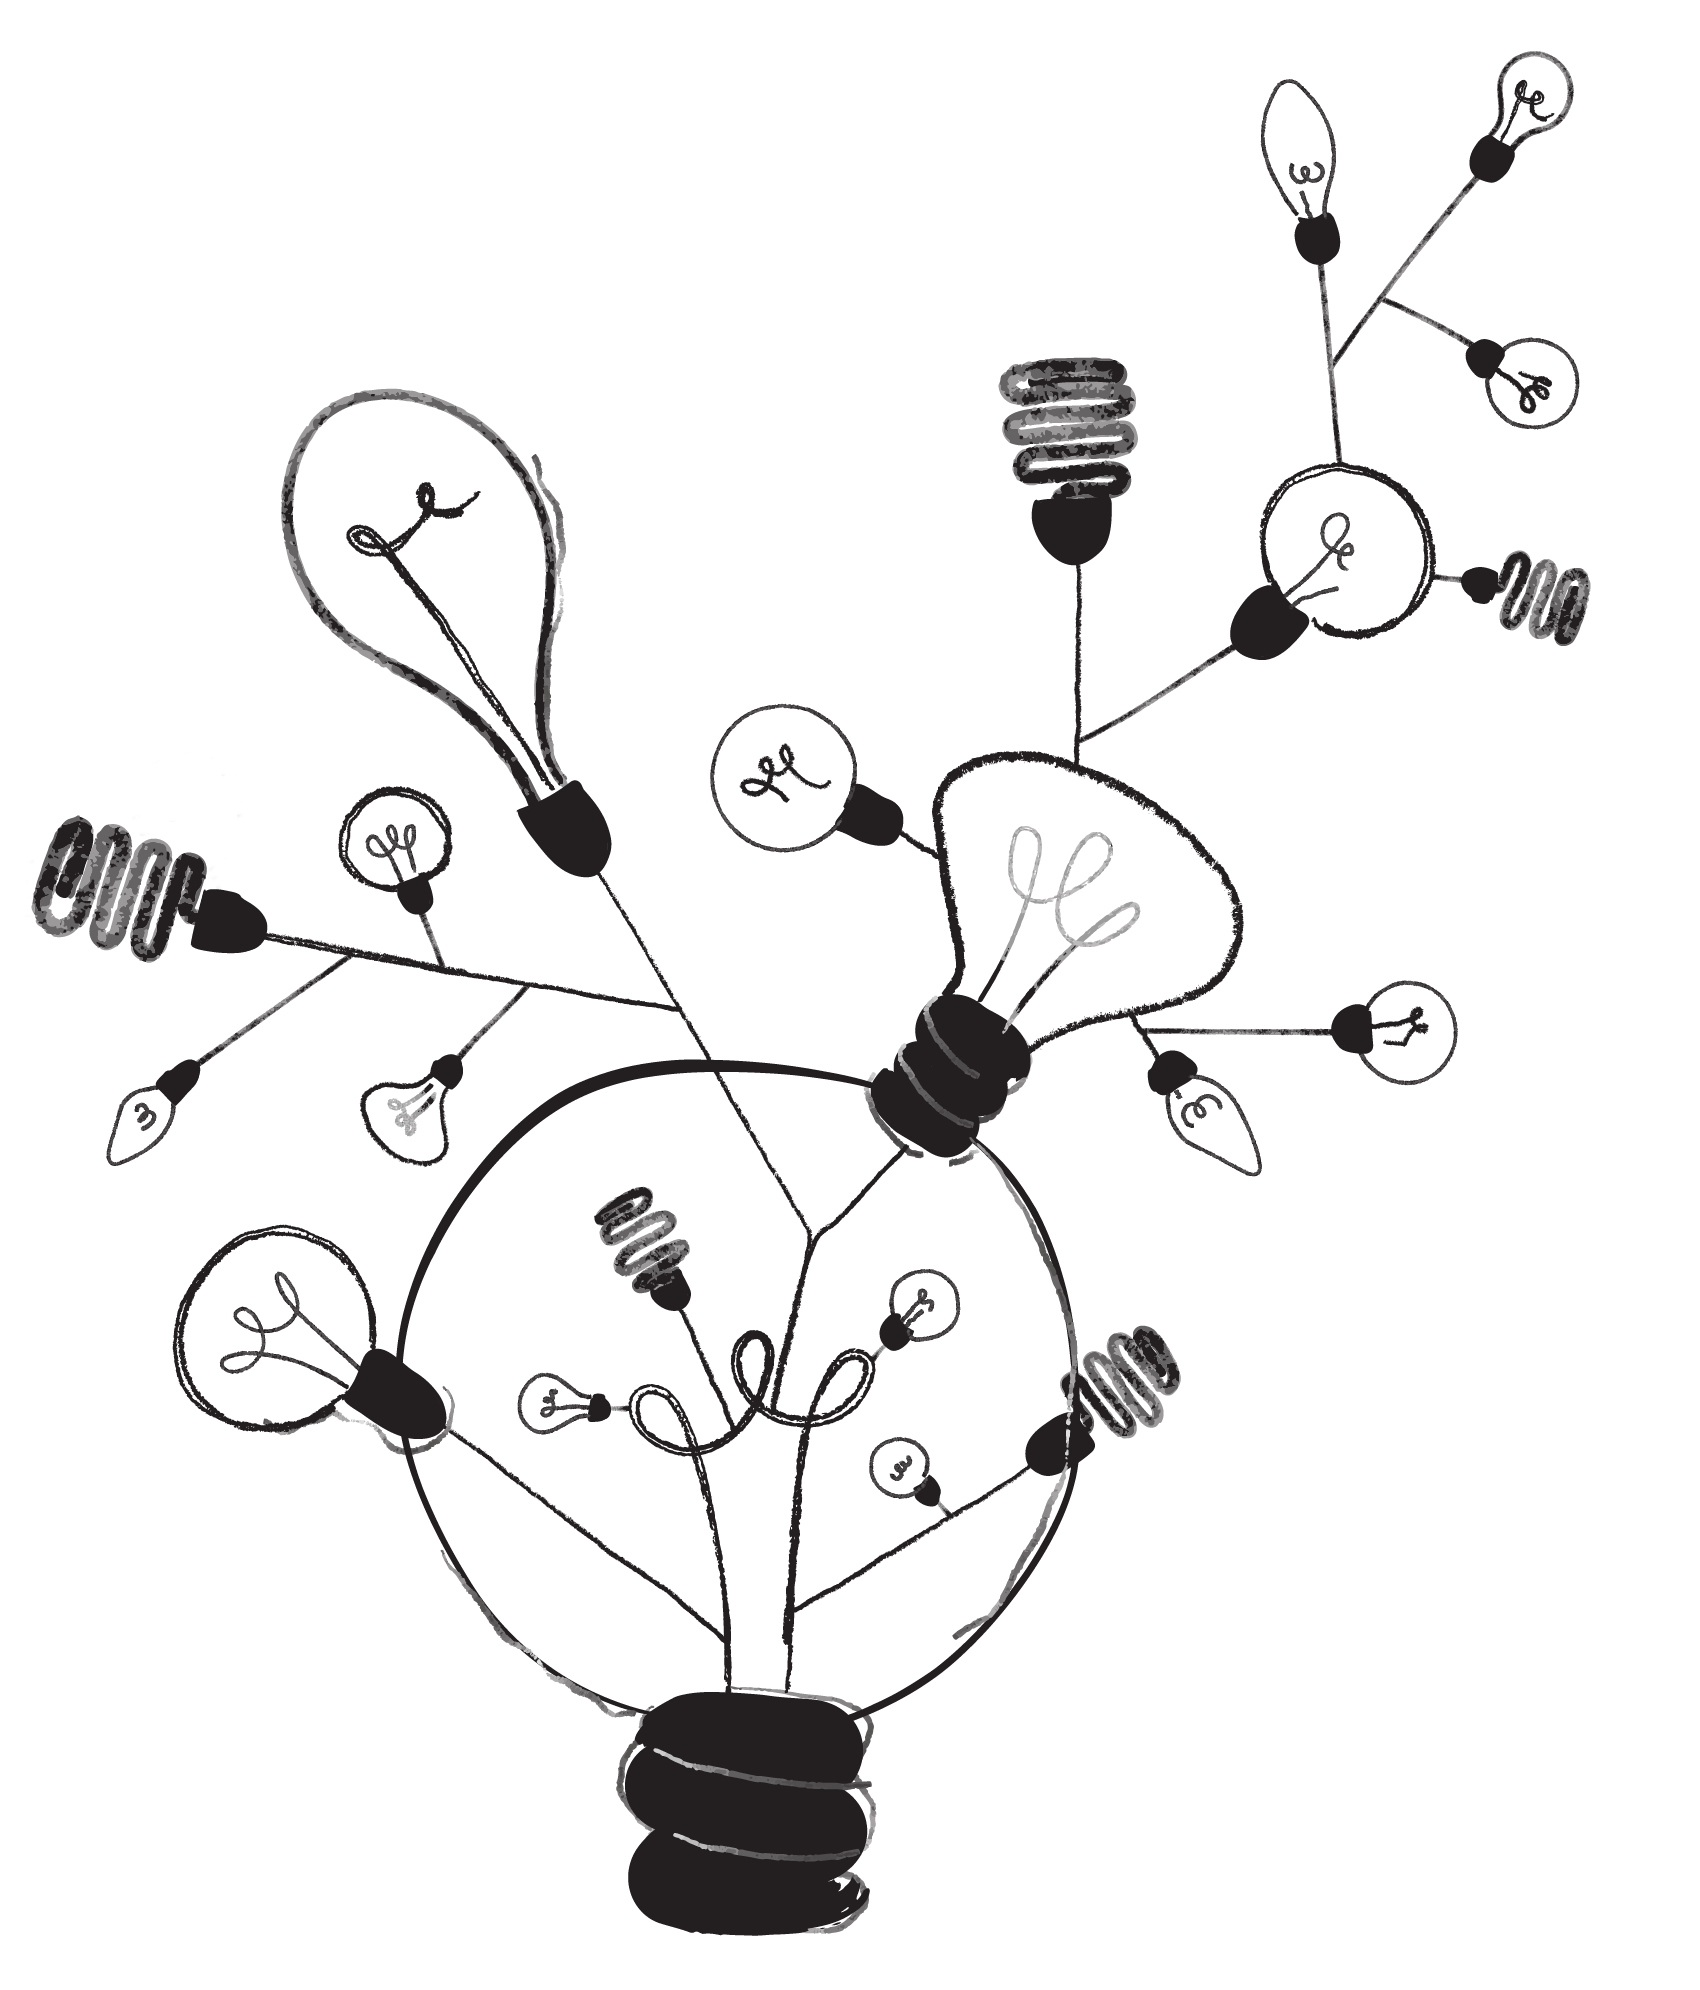
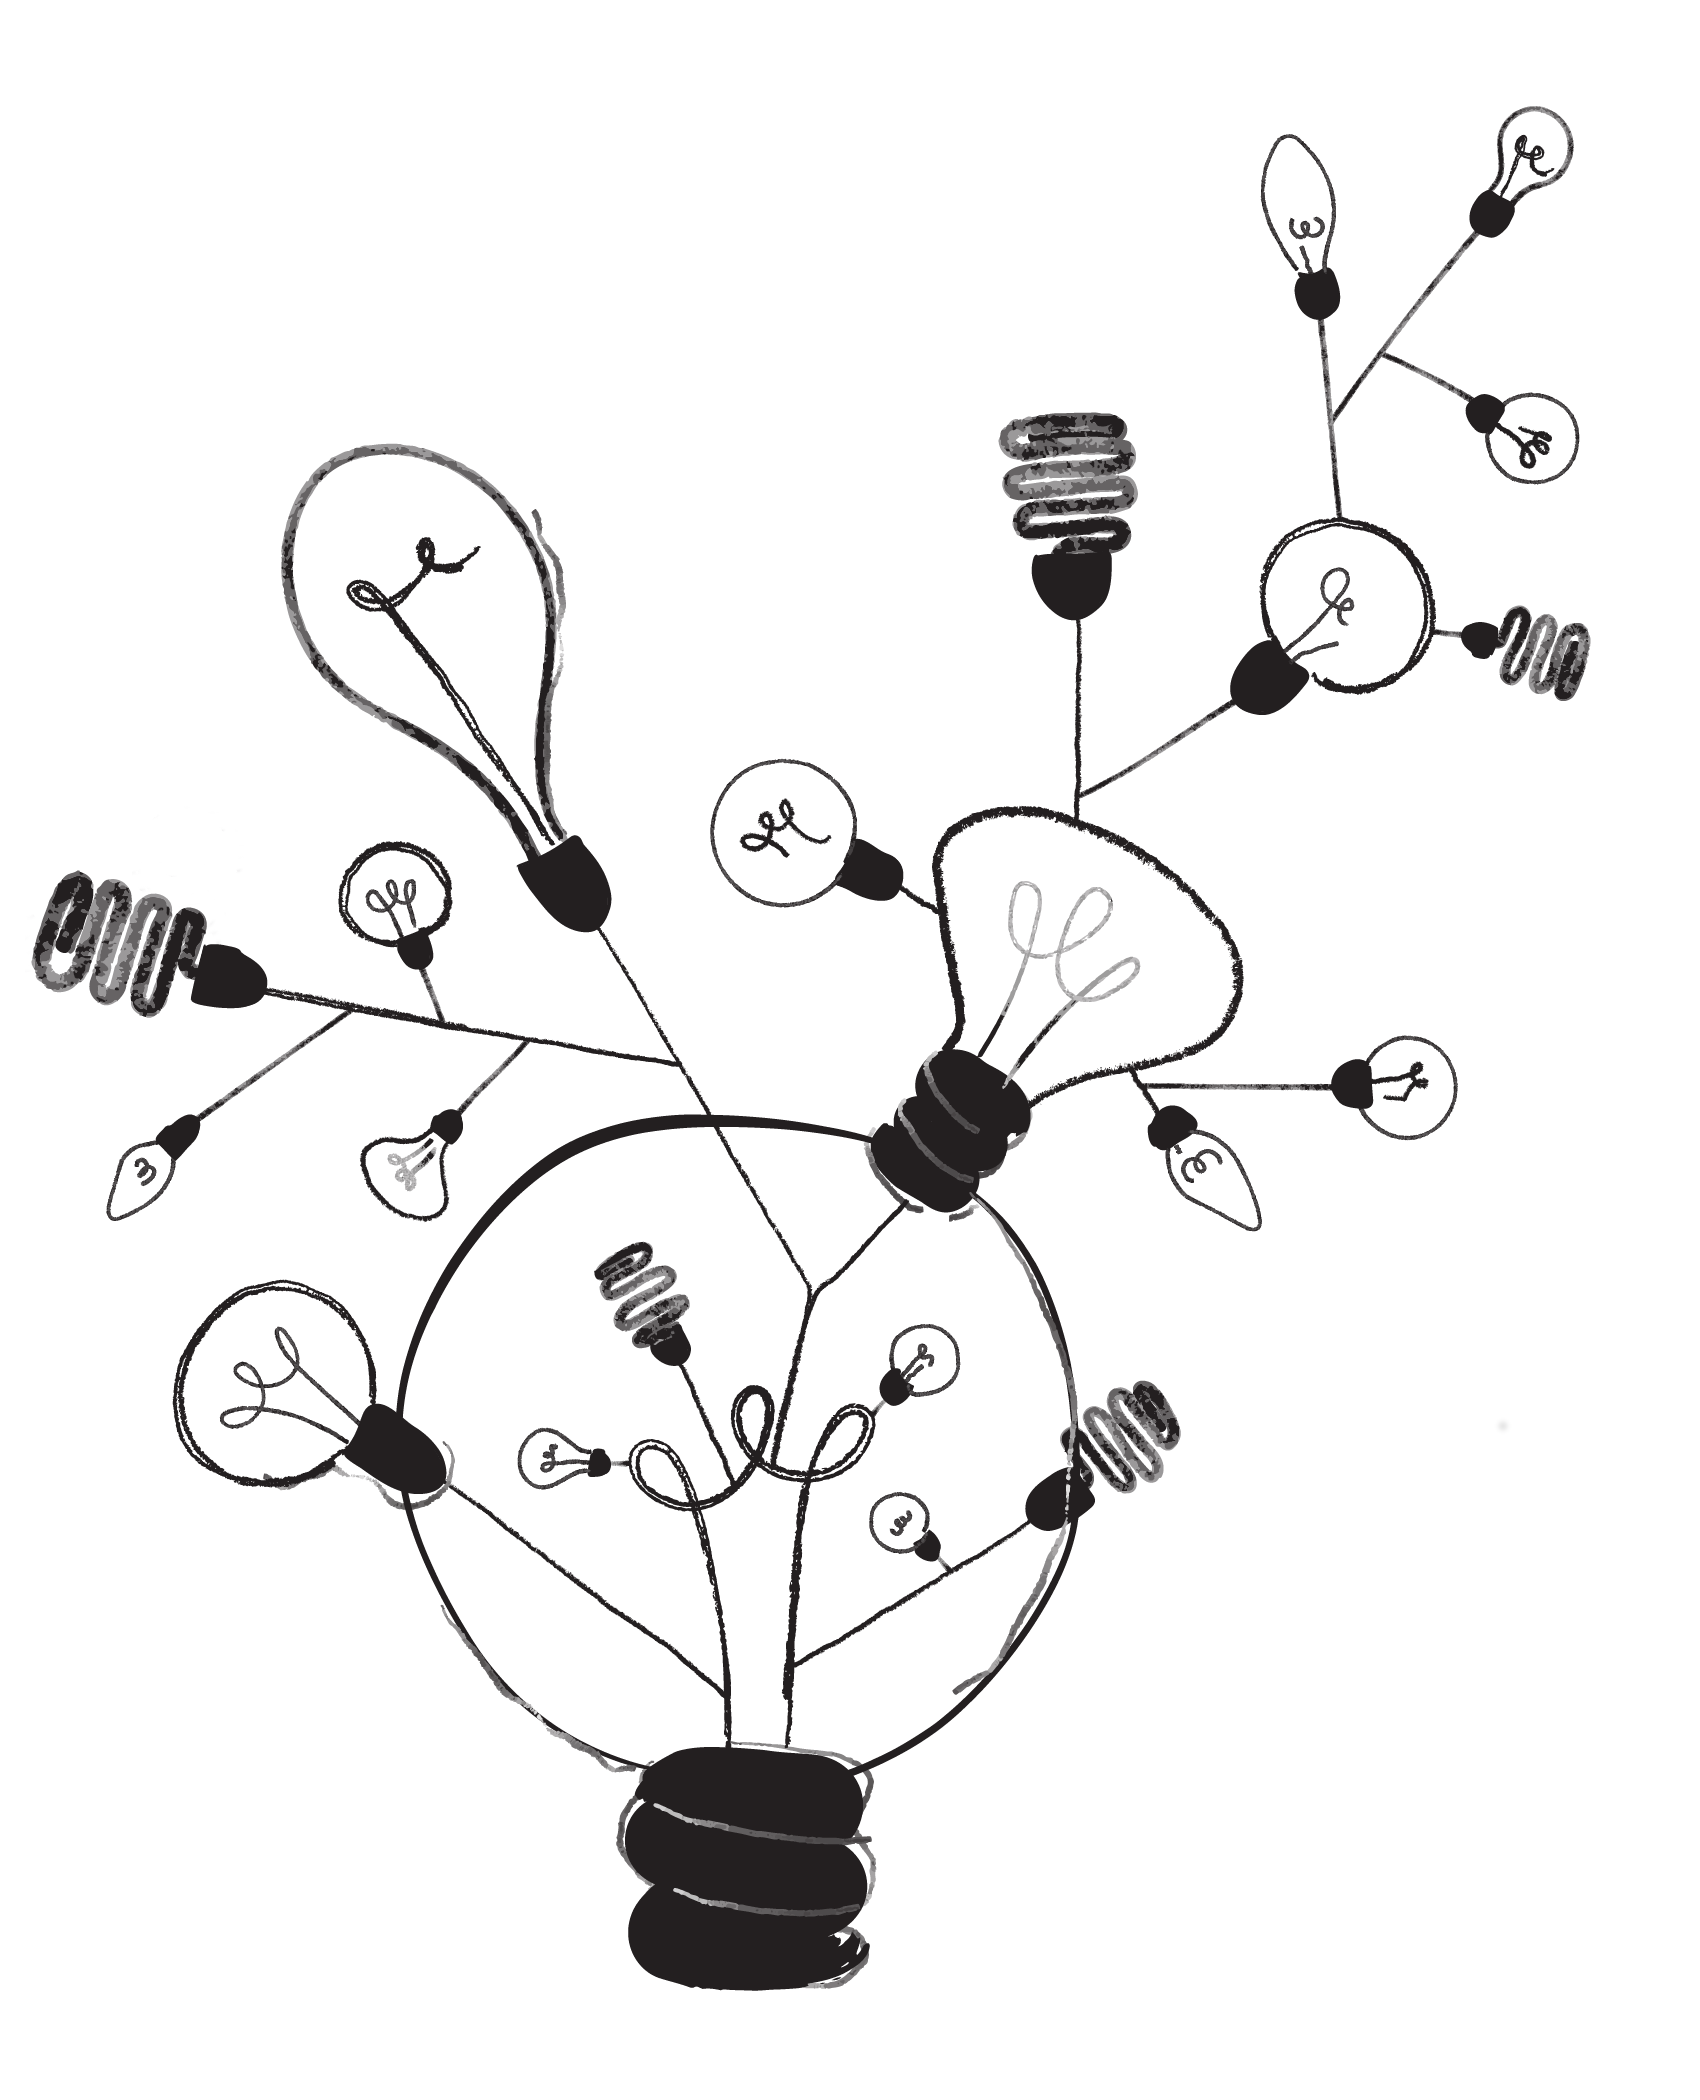
MP

diff --git a/index.html b/index.html
@@ -2,19 +2,18 @@
 layout: default
 nav_active: index
 title: Temir
-description: Text mining and retrieval
+description: Text Mining and Retrieval
 ---
 
 
 <main class="uk-section uk-padding-remove-top">
     <div class="uk-container">
-        <div class="uk-flex-top uk-text-left uk-padding-small cover-div uk-bac
-kground-top-right uk-background-contain" uk-grid>
-            <div class="uk-width-1-2@s uk-width-1-2@m uk-flex-first">
-                <div class="uk-flex-top uk-width-large@s uk-visible@m" id="uni-logo-div">
+        <div class="uk-flex-top uk-text-left uk-padding-small cover-div" uk-grid>
+            <div class="uk-width-2-3@s uk-width-1-2@m uk-flex-first">
+                <div class="uk-flex-top uk-width-large" id="uni-logo-div">
                     <img src="/img/uni-leipzig-logo.jpg" alt="Logo Universität Leipzig">
                 </div>
-                <div class="uk-margin-large-top">
+                <div class="uk-margin-small-top">
                     <h1 class="uk-lead">Text Mining and Retrieval</h1>
                     <p class=" uk-text-left">
                         The Temir group carries out basic and applied research with the goal of developing future information systems. Working at the intersection of natural language processing and information retrieval, our focus is on societal challenges concerning quality and trustworthiness of information. Results are integrated into large-scale information systems, making use of crowdsourcing, data mining, machine learning, high-performance computing, and web technologies.
@@ -29,7 +28,7 @@ kground-top-right uk-background-contain" uk-grid>
                 <img src="/img/index-cover-resized.png" width="85%" alt="Absurd Design Artwork">
             </div>
             -->
-            <div class="uk-position-right uk-visible@s uk-width-1-2@m uk-width-1-2@s uk-background-cover uk-background-norepeat" data-src="/img/index-cover-modified.png" uk-img style="z-index:0; background-position-x:0%"></div>
+            <div class="uk-position-right uk-visible@s uk-width-1-2@m uk-width-1-3@s uk-background-cover uk-background-norepeat" data-src="/img/index-cover-modified.png" uk-img style="z-index:0; background-position-x:0%"></div>
         </div>
     </div>
 </main>

diff --git a/_layouts/default.html b/_layouts/default.html
@@ -107,10 +107,10 @@
     <footer class="uk-section uk-section-muted footer-section">
         <div class="uk-container">
             <div class="uk-grid uk-grid-small" data-uk-grid>
-                <div class="uk-text-muted uk-text-small search-engines uk-width-1-3@s uk-width-1-5@m">
+                <div class="uk-text-muted uk-text-small uk-margin-medium-right search-engines">
 
                     <h4>Search Engines</h4>
-                    <div>
+                        <div>
                             <div class="uk-grid uk-grid-small uk-margin-bottom" data-uk-grid>
                                 <div class="uk-width-auto search-engine-icon">
                                     <a href="http://www.args.me/" class="uk-link-reset"><img alt="Args.me" src="/research/img/args-logo.png"></a>
@@ -162,19 +162,20 @@
                 <div>
                     <h4>Contact</h4>
                     <address>
-                       <strong>Text Mining and Retrieval Group</strong>, <br>
-                        Leipzig University, <br>
-                        Department of Computer Science, <br>
-                        Augustusplatz 10, <br>
-                        04109 Leipzig, <br>
+                        <strong>Text Mining and Retrieval Group</strong><br>
+                        Leipzig University<br>
+                        Department of Computer Science<br>
+                        Augustusplatz 10<br>
+                        04109 Leipzig<br>
                         Germany <br>
+                        <br>
                         <span uk-icon="world"></span>&nbsp; <a href="temir.org">www.temir.org</a><br>
                         <span uk-icon="receiver"></span>&nbsp;+49 341 97-32230
                     </address>
                 </div>
 
             </div>
-            <div class="uk-align-right@m uk-margin-top">
+            <div class="uk-align-right@m uk-margin-top copyright-impressum">
                 Copyright &copy; {{site.time | date: '%Y'}} Temir Group <span class="uk-padding-small">&bullet;</span>
                 <a href="impressum.html">Impressum / Privacy Policy</a>
             </div>

diff --git a/_sass/_index.scss b/_sass/_index.scss
@@ -22,6 +22,12 @@
     @extend .uk-position-cover;
     background: linear-gradient(to bottom, rgba(0, 0, 0, 0.2) 0%, rgba(0, 0, 0, 0.2) 40%, rgba(0, 0, 0, 0.6) 90%);
 }
+
+.copyright-impressum {
+    z-index: 1;
+    position: relative;
+}
+
 @media (max-width: 400px) {
     .index-main-cover {
         height: 550px;
